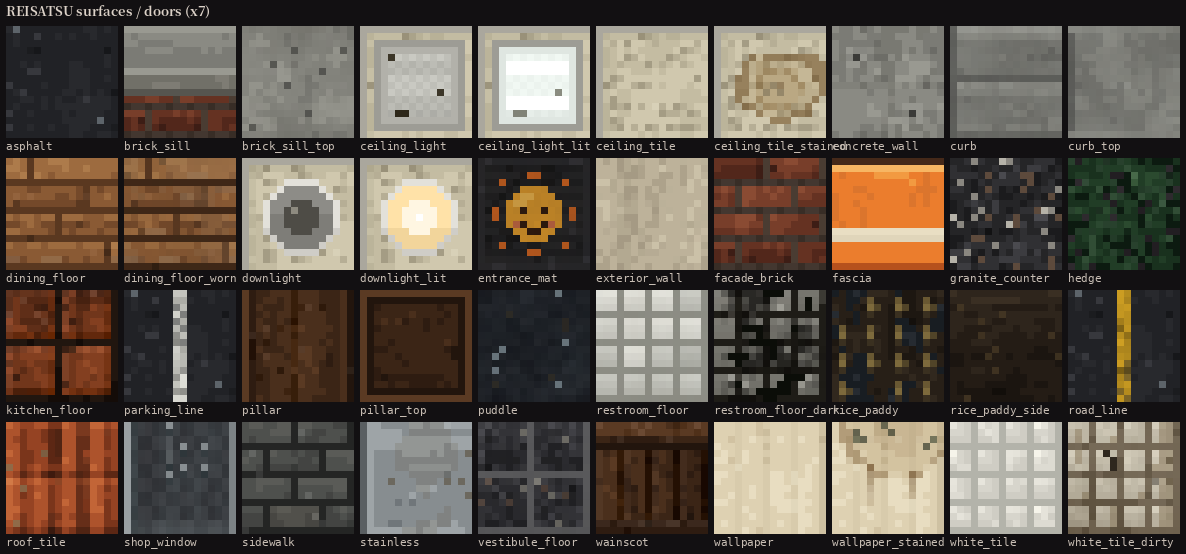
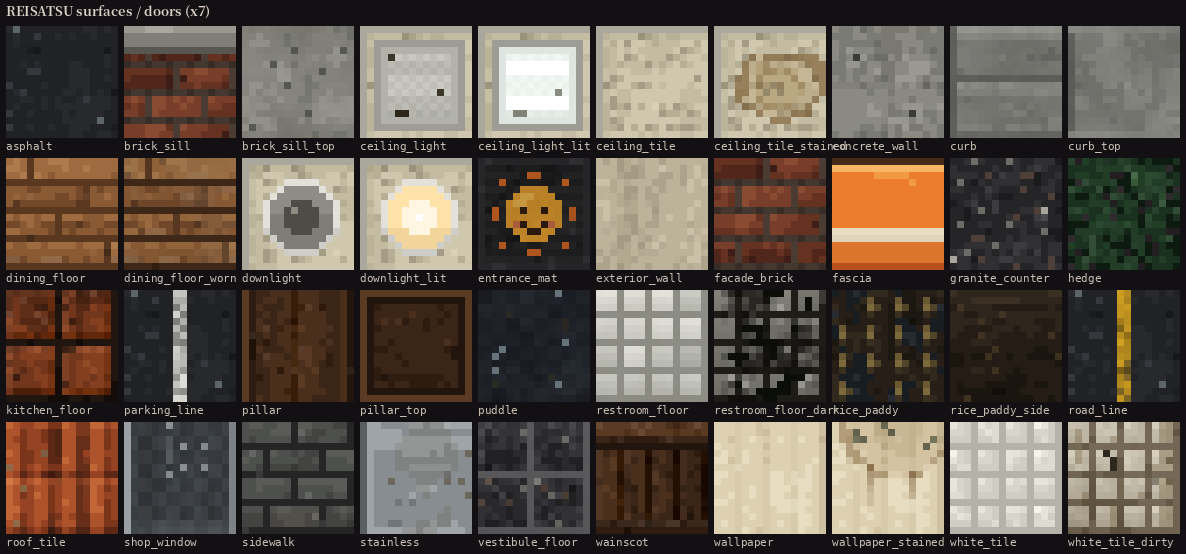
Art: brick sill matches the world's 10 px side mapping, swing-door frame header/threshold, finder overlay aligned to the game's 4:3 photo window (circle and face frame drawn by code), meter pivot at the game's needle origin
Claude-Session: https://claude.ai/code/session_017h8AWA8SMb3MbjFEftA5Gv

diff --git a/tools/art/rs_gui.py b/tools/art/rs_gui.py
@@ -4,9 +4,9 @@ note paper, locker slits, the HIDAMARI sun. (gui/jumpscare_* and gui/medium_port
 vignette and grain are the MEIKON/SOUNAN images.)
 
 Layout facts the game relies on (also in the art report):
-  finder 512x288   : 4:3 capture frame lines x 96..415, y 24..263; centre focus circle centred (256, 144), r 17,
-                     inside the clean region x 232..280, y 120..168 (tint that region to turn it red)
-  finder_meter     : needle pivot (64, 58), scale from -60 deg (left, 0) to +60 deg (right, max), 0 deg = straight up
+  finder 512x288   : eyepiece mask around the game's 4:3 photo window (x 80..432, y 12..276 = height 0.92, centred),
+                     bright-line corners 6 px inside it, parallax marks; the focus circle / face frame are drawn by code
+  finder_meter     : needle pivot (64, 56) (= dial bottom - 6 at the game's 96x48 size), scale -60..+60 deg
   photo_frame      : photo window x 8..119, y 8..91 (112x84) is fully transparent; name margin y 96..152
   icons 128x32     : 16x16 cells, row 0: film, お札, eye closed, eye half, eye open, eye alert, breath, breath (gasp)
                      row 1: no film, burnt お札, camera, flashlight, key, note, star, empty star
@@ -193,61 +193,51 @@ def title_logo():
 # ================================================================================================ finder
 @gui('finder', (512, 288))
 def finder():
+    """Optical finder overlay, stretched to the screen. The window matches the game's 4:3 photo window (height
+    0.92 of the screen, centred: x 80..432, y 12..276 here); the game draws the focus circle, the 80 % face frame,
+    the film count, the zoom scale and the 霊感計 itself, so the texture keeps only the eyepiece mask, the bright-line
+    corners and the parallax marks."""
     W, H = 512, 288
     S = 2
     w, h = W * S, H * S
     yy, xx = np.mgrid[0:h, 0:w].astype(np.float32) / S
-    # rounded window, the darkness outside, a soft inner falloff
-    x0, y0, x1, y1, rad = 14, 10, W - 14, H - 10, 26
+    x0, y0, x1, y1, rad = 80, 12, 432, 276, 16
     dx = np.maximum(np.maximum(x0 + rad - xx, xx - (x1 - rad)), 0)
     dy = np.maximum(np.maximum(y0 + rad - yy, yy - (y1 - rad)), 0)
-    d = np.hypot(dx, dy) - rad                       # >0 outside the rounded rect
+    d = np.hypot(dx, dy) - rad                       # >0 outside the rounded window
     inside_edge = np.minimum(np.minimum(xx - x0, x1 - xx), np.minimum(yy - y0, y1 - yy))
-    alpha = np.where(d > 0, 1.0, np.clip(1 - inside_edge / 34.0, 0, 1) ** 2.2 * 0.78)
+    alpha = np.where(d > 0, 0.95, np.clip(1 - inside_edge / 30.0, 0, 1) ** 2.4 * 0.62)
     out = np.zeros((h, w, 4), np.float32)
-    out[..., :3] = 4
+    n = blur(rng(15301).normal(0, 1, (h, w)), 1.5)
+    out[..., :3] = 5 + n[..., None] * 1.5
     out[..., 3] = alpha * 255
-    # eyepiece rim: a faint lighter ring just inside the window edge
-    rim = (d > -2.2) & (d < -0.8)
-    out[rim, :3] = 40
-    out[rim, 3] = 210
+    # the eyepiece: a dim lit rim just outside the window, the body's grain further out
+    rim = (d > 0.3) & (d < 2.4)
+    out[rim, :3] = 46
+    out[rim, 3] = 235
+    far = d > 2.4
+    out[far, :3] += np.clip(blur((yy < H * 0.5).astype(np.float32), 30 * S), 0, 1)[far][:, None] * 6
     img = Image.new('L', (w, h), 0)
     dr = ImageDraw.Draw(img)
     lw = S
 
     def L(pts):
         dr.line([(p[0] * S, p[1] * S) for p in pts], fill=255, width=lw)
-    # bright-line frame: corner brackets of the 4:3 capture area
-    fx0, fy0, fx1, fy1 = 96, 24, 415, 263
+    # bright-line corners at 6 px inside the window, parallax marks near the top centre
     arm = 22
-    for (cx, cy, sx, sy) in ((fx0, fy0, 1, 1), (fx1, fy0, -1, 1), (fx0, fy1, 1, -1), (fx1, fy1, -1, -1)):
+    for (cx, cy, sx, sy) in ((x0 + 6, y0 + 6, 1, 1), (x1 - 7, y0 + 6, -1, 1), (x0 + 6, y1 - 7, 1, -1), (x1 - 7, y1 - 7, -1, -1)):
         L([(cx, cy + sy * arm), (cx, cy), (cx + sx * arm, cy)])
-    # parallax correction marks (short ticks inside the top corners)
-    for (cx, cy, sx) in ((fx0 + 10, fy0 + 12, 1), (fx1 - 10, fy0 + 12, -1)):
-        L([(cx, cy), (cx + sx * 9, cy)])
-        L([(cx, cy), (cx, cy + 9)])
-    # thin dotted 4:3 outline
-    for t in range(fx0 + arm + 6, fx1 - arm - 4, 8):
-        L([(t, fy0), (t + 2, fy0)])
-        L([(t, fy1), (t + 2, fy1)])
-    for t in range(fy0 + arm + 6, fy1 - arm - 4, 8):
-        L([(fx0, t), (fx0, t + 2)])
-        L([(fx1, t), (fx1, t + 2)])
-    # centre focus circle + tiny cross (alone inside x 232..280, y 120..168)
-    cx, cy, cr = 256, 144, 17
-    dr.ellipse([(cx - cr) * S, (cy - cr) * S, (cx + cr) * S, (cy + cr) * S], outline=255, width=lw)
-    L([(cx - 4, cy), (cx - 1, cy)])
-    L([(cx + 1, cy), (cx + 4, cy)])
-    L([(cx, cy - 4), (cx, cy - 1)])
-    L([(cx, cy + 1), (cx, cy + 4)])
-    # the frame counter window at the bottom (film count drawn by code next to it) and the meter shelf
-    L([(fx0 + 4, fy1 + 10), (fx0 + 40, fy1 + 10)])
+    pyy = y0 + (y1 - y0) / 10
+    L([(W / 2 - 30, pyy), (W / 2 - 18, pyy)])
+    L([(W / 2 + 18, pyy), (W / 2 + 30, pyy)])
+    L([(W / 2 - 30, pyy), (W / 2 - 30, pyy + 5)])
+    L([(W / 2 + 30, pyy), (W / 2 + 30, pyy + 5)])
     lines = np.asarray(img, np.float32) / 255.0
     lines = np.maximum(lines, blur(lines, 1.2 * S) * 0.6)
     lc = np.array([236, 240, 228], np.float32)
     la = lines[..., None]
     out[..., :3] = out[..., :3] * (1 - la) + lc * la
-    out[..., 3] = np.maximum(out[..., 3], lines * 225)
+    out[..., 3] = np.maximum(out[..., 3], lines * 215)
     return downsample(out, S)
 
 
@@ -257,8 +247,8 @@ def finder_meter():
     W, H = 128 * S, 64 * S
     im = Image.new('RGBA', (W, H), (0, 0, 0, 0))
     d = ImageDraw.Draw(im)
-    px_, py_ = 64 * S, 58 * S
-    R_ = 54 * S
+    px_, py_ = 64 * S, 56 * S
+    R_ = 52 * S
     # housing: dark bezel, a cream face (semicircle), glass glare
     d.rounded_rectangle([2 * S, 2 * S, W - 3 * S, H - 3 * S], radius=10 * S, fill=(24, 22, 20, 235),
                         outline=(80, 74, 66, 255), width=2 * S)

diff --git a/tools/art/rs_scene.py b/tools/art/rs_scene.py
@@ -459,8 +459,30 @@ def scene_finder():
     bg = I.fromarray(booth.astype(np.uint8)).convert('RGBA').resize((1024, 576))
     fi = I.open(os.path.join(TEX_ROOT, 'gui/finder.png')).convert('RGBA').resize((1024, 576), I.NEAREST)
     bg.alpha_composite(fi)
-    meter = I.open(os.path.join(TEX_ROOT, 'gui/finder_meter.png')).convert('RGBA').resize((256, 128), I.NEAREST)
-    bg.alpha_composite(meter, (736, 424))
+    # what the game draws on top (client/Finder.java at GUI scale 2): face frame corners, focus ring, meter, film count
+    from PIL import ImageDraw as D
+    w, h, gs = 1024, 576, 2
+    ph = int(h * 0.92)
+    pw = int(ph * 4 / 3)
+    px_, py_ = (w - pw) // 2, (h - ph) // 2
+    fx, fy = int(pw * 0.1), int(ph * 0.1)
+    dr = D.Draw(bg)
+    c = (232, 238, 240, 90)
+    for (cx, cy, sx, sy) in ((px_ + fx, py_ + fy, 1, 1), (px_ + pw - fx, py_ + fy, -1, 1), (px_ + fx, py_ + ph - fy, 1, -1),
+                             (px_ + pw - fx, py_ + ph - fy, -1, -1)):
+        dr.line([(cx, cy), (cx + sx * 20, cy)], fill=c, width=2)
+        dr.line([(cx, cy), (cx, cy + sy * 20)], fill=c, width=2)
+    r = int(ph * 0.14)
+    dr.ellipse([w // 2 - r, h // 2 - r, w // 2 + r, h // 2 + r], outline=(224, 40, 24, 232), width=2)
+    meter = I.open(os.path.join(TEX_ROOT, 'gui/finder_meter.png')).convert('RGBA').resize((96 * gs, 48 * gs), I.NEAREST)
+    mx, my = px_ + fx, py_ + ph - fy - 50 * gs
+    bg.alpha_composite(meter, (mx, my))
+    import math as _m
+    ang = _m.radians(-60 + 120 * 0.72)
+    pvx, pvy = mx + 48 * gs, my + 48 * gs - 6 * gs
+    dr.line([(pvx, pvy), (pvx + _m.sin(ang) * 34 * gs, pvy - _m.cos(ang) * 34 * gs)], fill=(232, 48, 32, 240), width=2)
+    dr.text((px_ + pw - fx - 90, py_ + ph - fy + 6), 'のこり 7枚', fill=(224, 232, 224, 230),
+            font=__import__('common').font(__import__('common').FONT_SANS_JP_MED, 16))
     # the ejected photo: frame + the booth view shrunk as "the photo" + the red name on the margin
     frame_ = I.open(os.path.join(TEX_ROOT, 'gui/photo_frame.png')).convert('RGBA')
     photo = I.fromarray(booth.astype(np.uint8)).convert('RGBA').resize((112, 84))

diff --git a/tools/art/rs_surfaces.py b/tools/art/rs_surfaces.py
@@ -483,15 +483,19 @@ def facade_brick():
 
 @tex('brick_sill')
 def brick_sill():
-    a = facade_brick()
+    """Side of the 10 px brick sill. The world's model shows the TOP 10 rows (uv 0..10) on its sides: rows 0..2 the
+    concrete sill (lit edge, face), row 3 the drip shadow, rows 4..9 brick courses whose mortar line (row 9) sits on the
+    facade_brick below (its row 0 is a brick top). Rows 10..15 continue the bricks (full-block use)."""
+    base = facade_brick()
+    a = blank(16, 16)
+    # bricks: shift the facade pattern so that the sill's row 9 is a mortar row (facade rows 3, 7, 11, 15 are mortar)
+    for y in range(16):
+        a[y] = base[(y + 10) % 16]
     n = wrapn(2201, beta=1.2, sx=6)
-    conc = from_idx(3.6 + n * 0.4, CONCRETE)
-    a[0:9] = conc[0:9]
-    a[6] = from_idx(np.full(16, 5.4) + n[6] * 0.3, CONCRETE)    # sill top edge (seen on a 10 px slab)
-    a[7:9] = from_idx(np.full((2, 16), 3.4) + n[7:9] * 0.3, CONCRETE)
-    a[9] = from_idx(np.full(16, 1.2), CONCRETE)                 # drip shadow under the sill
-    tint(a[7:10], '#3a3020', 0.15)
-    a[0] = from_idx(np.full(16, 5.0) + n[0] * 0.3, CONCRETE)
+    a[0] = from_idx(np.full(16, 5.4) + n[0] * 0.3, CONCRETE)
+    a[1:3] = from_idx(np.full((2, 16), 3.8) + n[1:3] * 0.35, CONCRETE)
+    a[3] = from_idx(np.full(16, 1.0), CONCRETE)
+    tint(a[1:4], '#3a3020', 0.12)
     return a
 
 

diff --git a/tools/art/rs_exterior.py b/tools/art/rs_exterior.py
@@ -932,9 +932,13 @@ A_SWF = Atlas('swing_door_frame')
 
 
 def swing_door_frame():
-    m = Model('swing_door_frame', A_SWF, display=DISP_FRONT)
-    for x0 in (0, 15.25):
-        m.box([x0, 0, 6], [x0 + 0.75, 16, 10], M.STEEL_M)
+    """Lower half of the kitchen swing doors (the leaves are drawn by the world's renderer in the block centre plane):
+    a stainless threshold plate and the door header at the top of the 2-high opening (y 30..32 reaches into the upper
+    half, whose own model is invisible). No jambs: the same model serves the left and the right leaf."""
+    m = Model('swing_door_frame', A_SWF, display=disp(gui=(30, 225, 0), gui_scale=0.4, gui_t=(0, -3, 0)))
+    m.box([0, 0, 4], [16, 0.3, 12], M.STEEL_M)
+    m.box([0, 30, 5], [16, 32, 11], M.STEEL_M)
+    m.box([0, 29.6, 6], [16, 30, 10], M.custom('rubber_strip', lambda w, h, f: blank(w, h, '#1a1a1a')))
     return m
 
 
